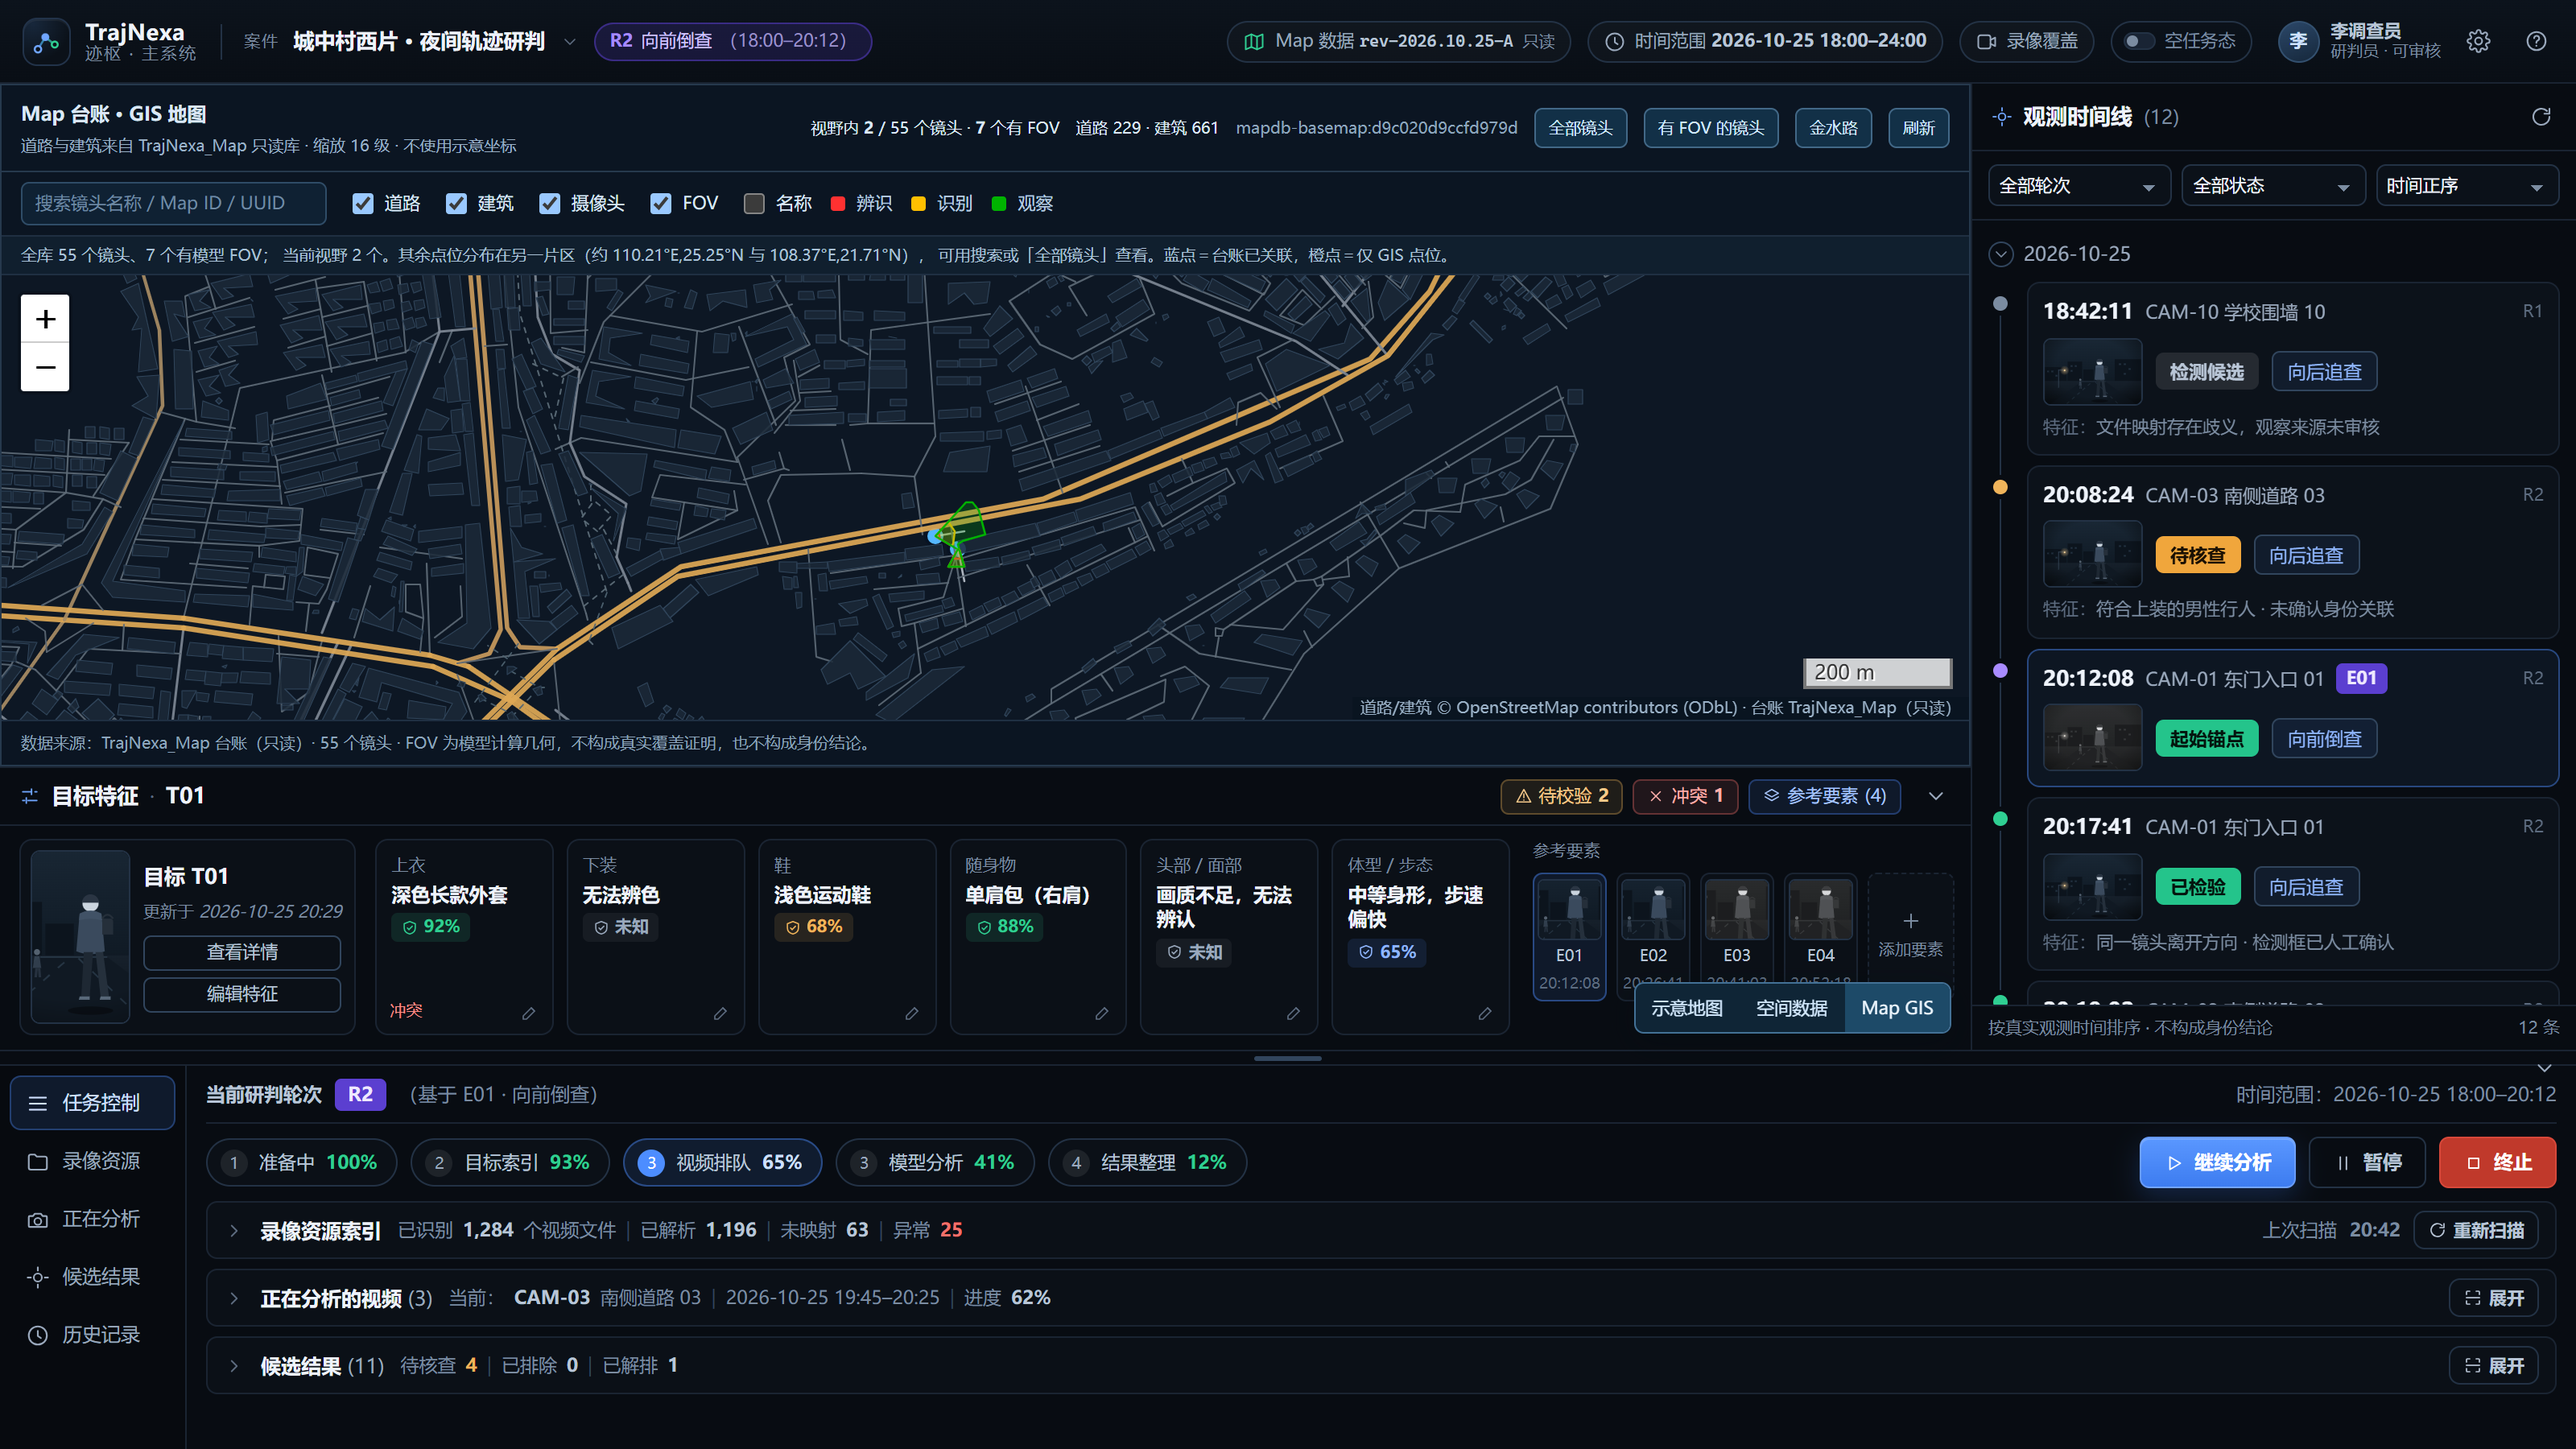
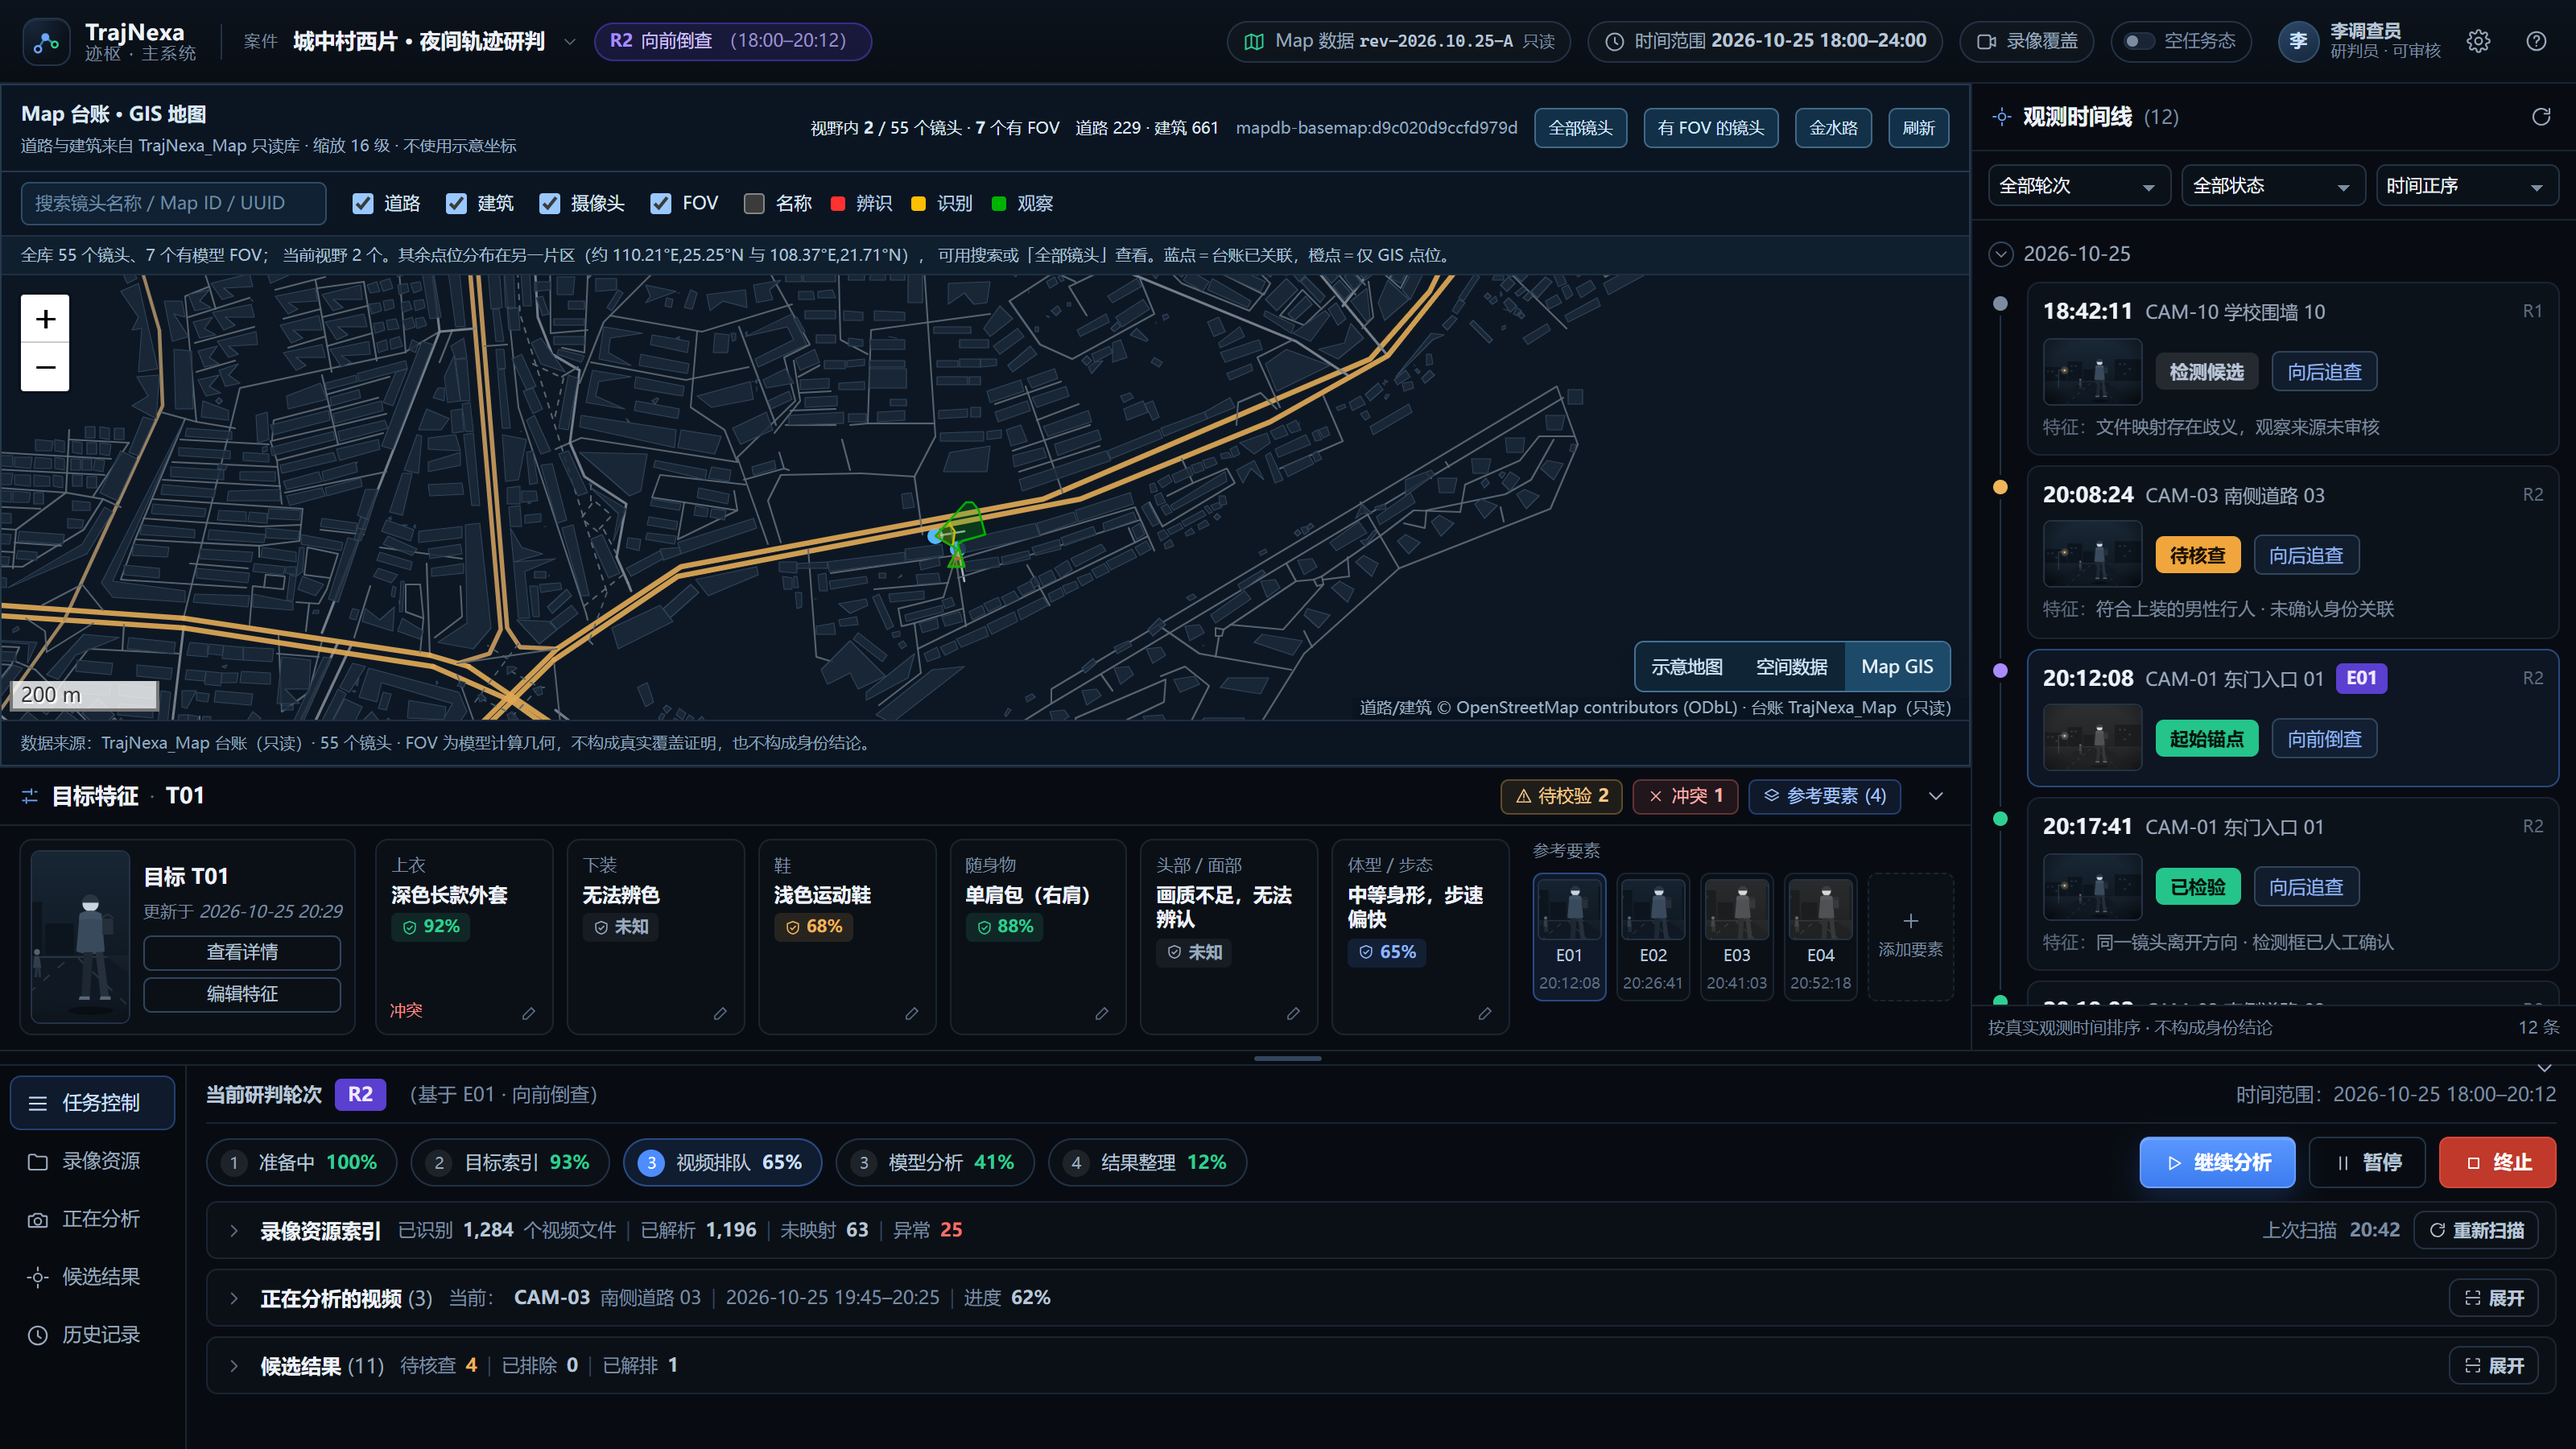
fix(ui): 视图切换按钮收进地图区域，不再压住目标特征栏
- .stage 里给地图单独一个 .map-slot 网格行，切换按钮改为同一行的右下角对齐，
  不再相对整个 stage 绝对定位（之前 bottom:10px 落在特征栏上）
- 按钮让出 46px 给底图署名/状态行，并允许穿透空白区（pointer-events）
- GIS 比例尺从右下移到左下，避免与切换按钮重叠
- 1280×800 与 1600×900 下三种模式实测：不压特征栏、不压比例尺、署名与缩放控件均无重叠
- 同步更新 design 截图

Changed region(s): [[0.625, 0.6533, 0.7812, 0.7156], [0.625, 0.4356, 0.7812, 0.4978], [0.0, 0.4667, 0.0625, 0.4978]]

diff --git a/frontend/src/App.vue b/frontend/src/App.vue
@@ -25,6 +25,11 @@ onMounted(applyDemoHash);
 
     <main class="app-main">
       <div class="stage">
+        <div class="map-slot">
+          <MapGisView v-if="mapMode === 'gis'" />
+          <SpatialDataPreview v-else-if="mapMode === 'spatial'" />
+          <WorkspaceMap v-else />
+        </div>
         <div class="m2b-toggle">
           <div class="map-modes" role="group" aria-label="地图视图">
             <button type="button" :class="{ 'is-on': mapMode === 'demo' }" @click="mapMode = 'demo'">示意地图</button>
@@ -32,9 +37,6 @@ onMounted(applyDemoHash);
             <button type="button" :class="{ 'is-on': mapMode === 'gis' }" @click="mapMode = 'gis'">Map GIS</button>
           </div>
         </div>
-        <MapGisView v-if="mapMode === 'gis'" />
-        <SpatialDataPreview v-else-if="mapMode === 'spatial'" />
-        <WorkspaceMap v-else />
         <TargetFeatureBar />
       </div>
       <ObservationTimeline />
@@ -78,12 +80,34 @@ onMounted(applyDemoHash);
   min-width: 0;
 }
 
+/* 地图单独占第一行，控件挂在地图内，避免压到下面的目标特征栏 */
+.map-slot {
+  position: relative;
+  display: flex;
+  grid-row: 1;
+  grid-column: 1;
+  min-height: 0;
+  min-width: 0;
+}
+.map-slot > * {
+  flex: 1;
+  min-height: 0;
+  min-width: 0;
+}
+.feature-bar {
+  grid-row: 2;
+  grid-column: 1;
+}
 
 .m2b-toggle {
-  position: absolute;
+  grid-row: 1;
+  grid-column: 1;
   z-index: 30;
-  bottom: 10px;
-  right: 12px;
+  align-self: end;
+  justify-self: end;
+  /* 让开底图署名、比例尺与状态行 */
+  margin: 0 12px 46px 0;
+  pointer-events: none;
 }
 .map-modes {
   display: flex;
@@ -93,6 +117,7 @@ onMounted(applyDemoHash);
   border-radius: 6px;
   background: #0f2536;
   box-shadow: 0 6px 18px rgba(4, 10, 18, 0.45);
+  pointer-events: auto;
 }
 .map-modes button {
   color: #d4eaff;

diff --git a/frontend/src/components/MapGisView.vue b/frontend/src/components/MapGisView.vue
@@ -344,7 +344,7 @@ onMounted(() => {
   instance.createPane("fovPane");
   instance.getPane("fovPane")!.style.zIndex = "415";
   canvasFov = L.canvas({ padding: 0.4, tolerance: 6, pane: "fovPane" });
-  L.control.scale({ imperial: false, position: "bottomright" }).addTo(instance);
+  L.control.scale({ imperial: false, position: "bottomleft" }).addTo(instance);
   L.control.zoom({ position: "topleft" }).addTo(instance);
   instance.attributionControl.setPrefix(false);
   instance.attributionControl.addAttribution("道路/建筑 © OpenStreetMap contributors (ODbL) · 台账 TrajNexa_Map（只读）");
